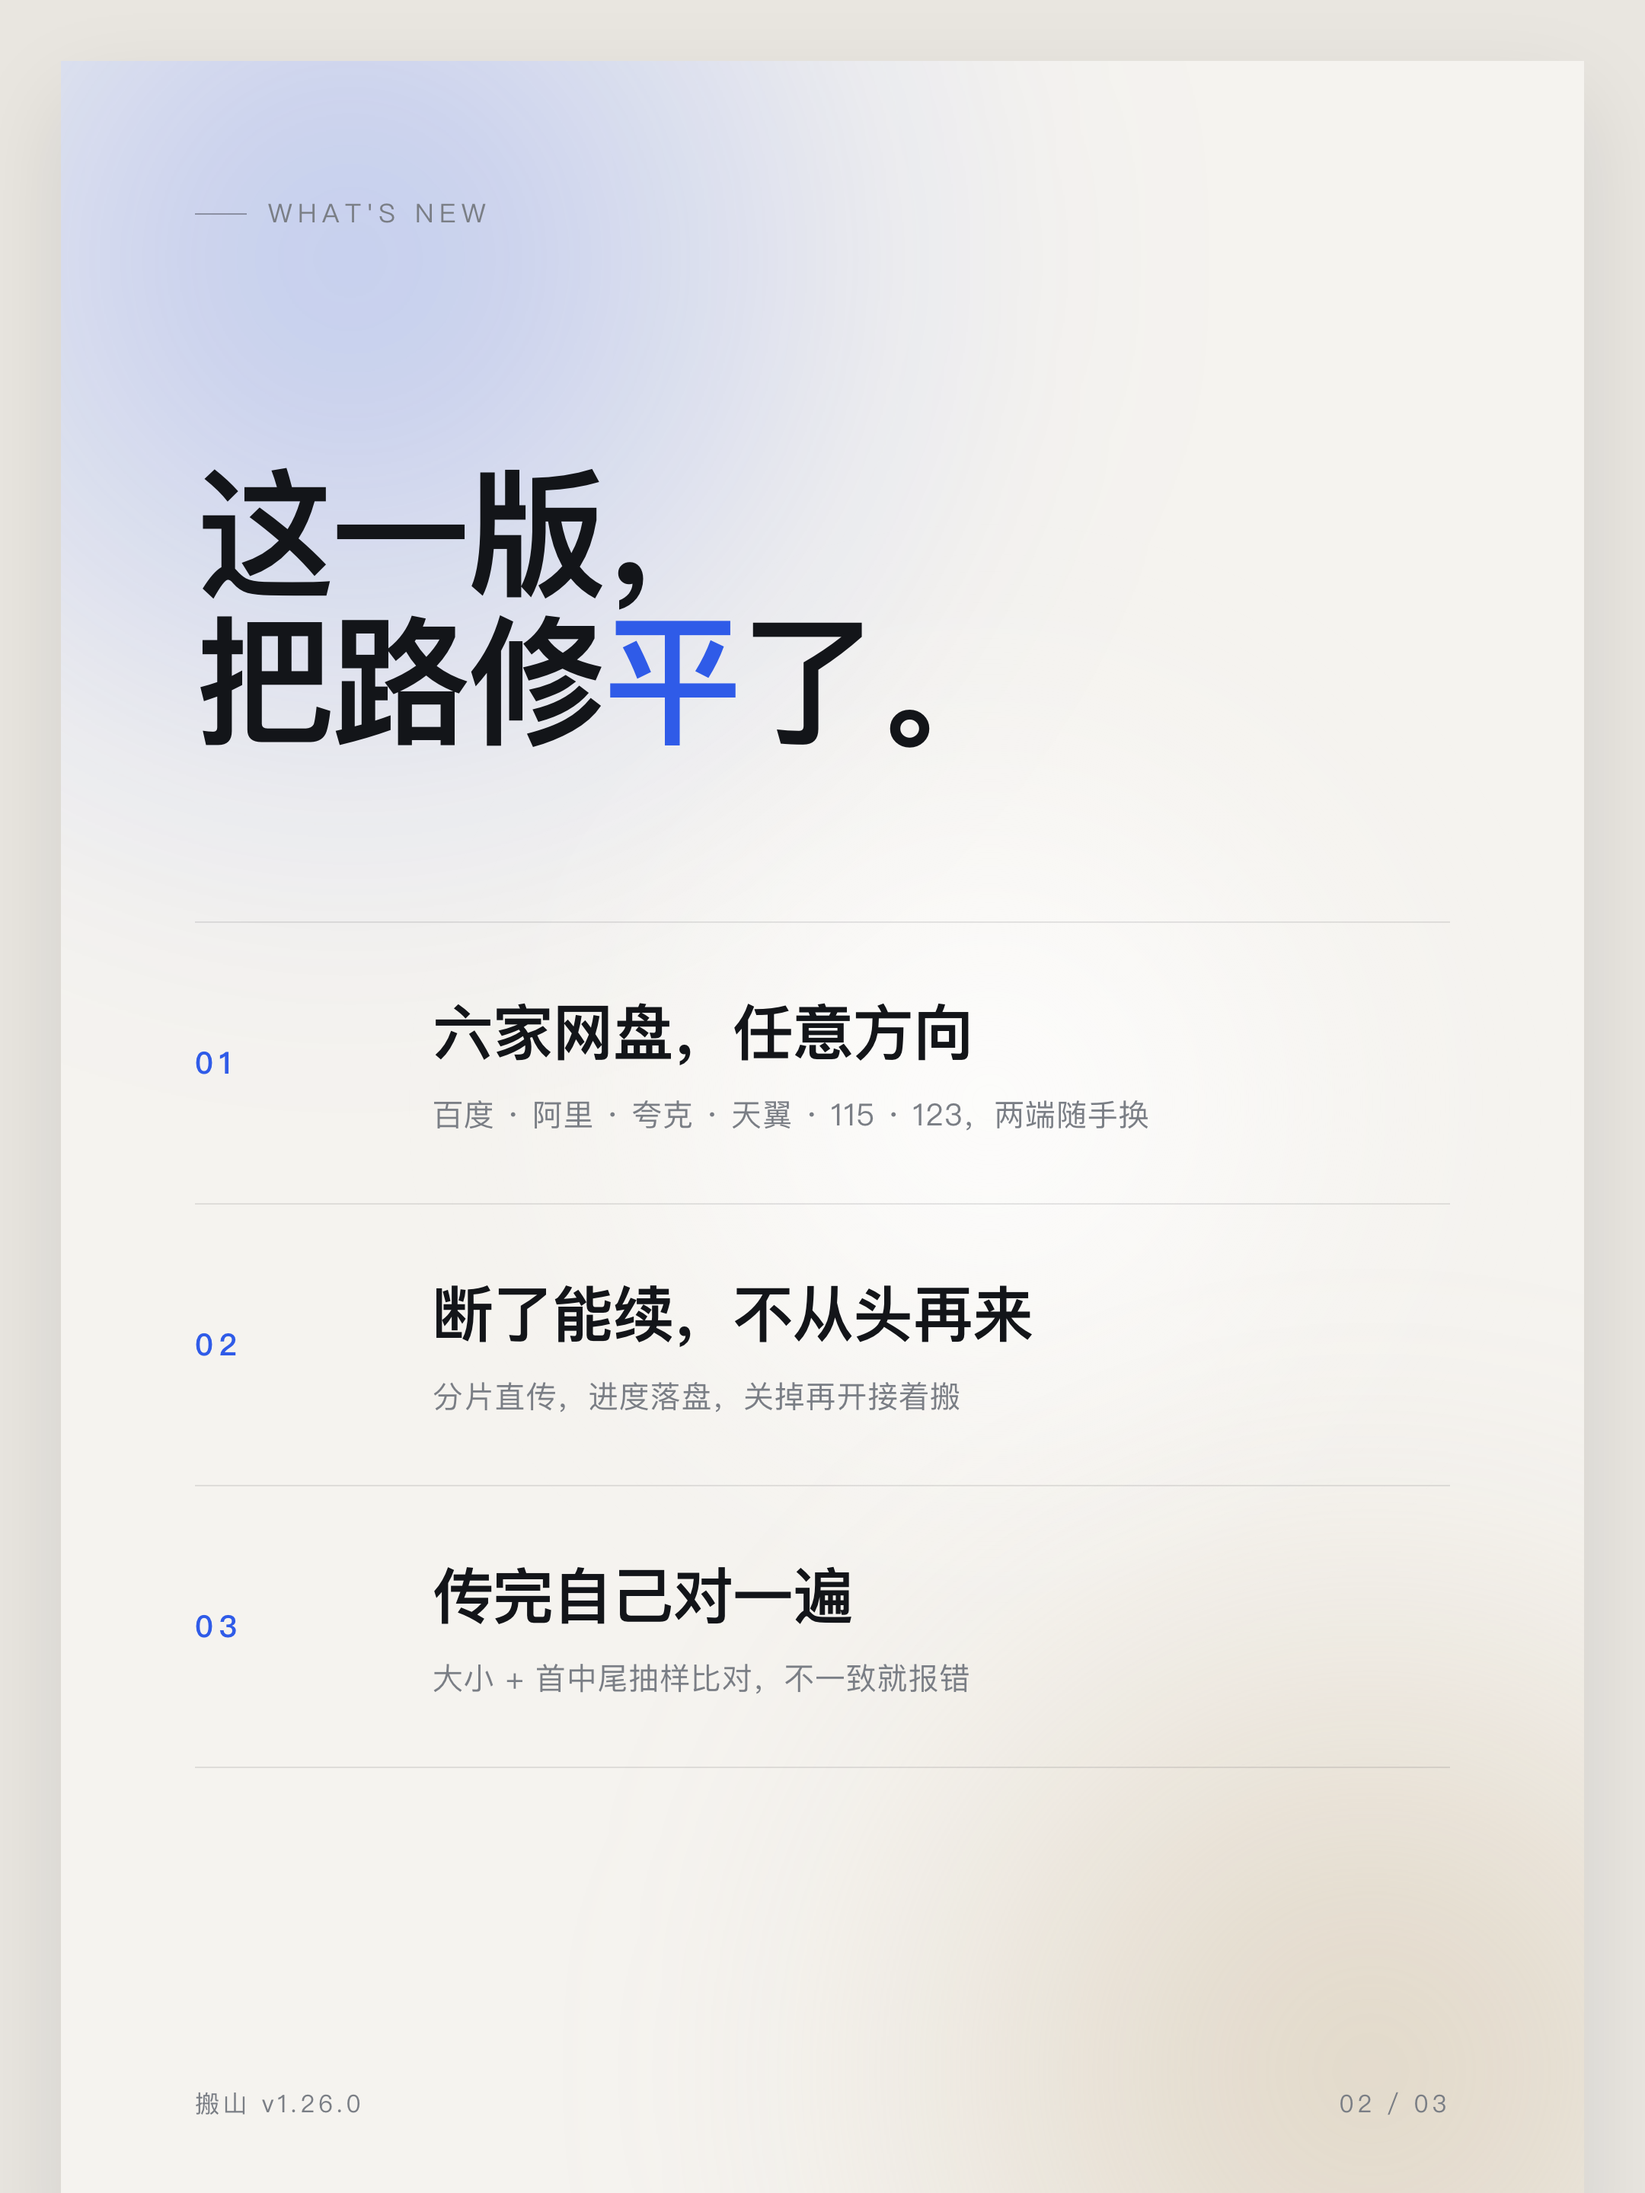
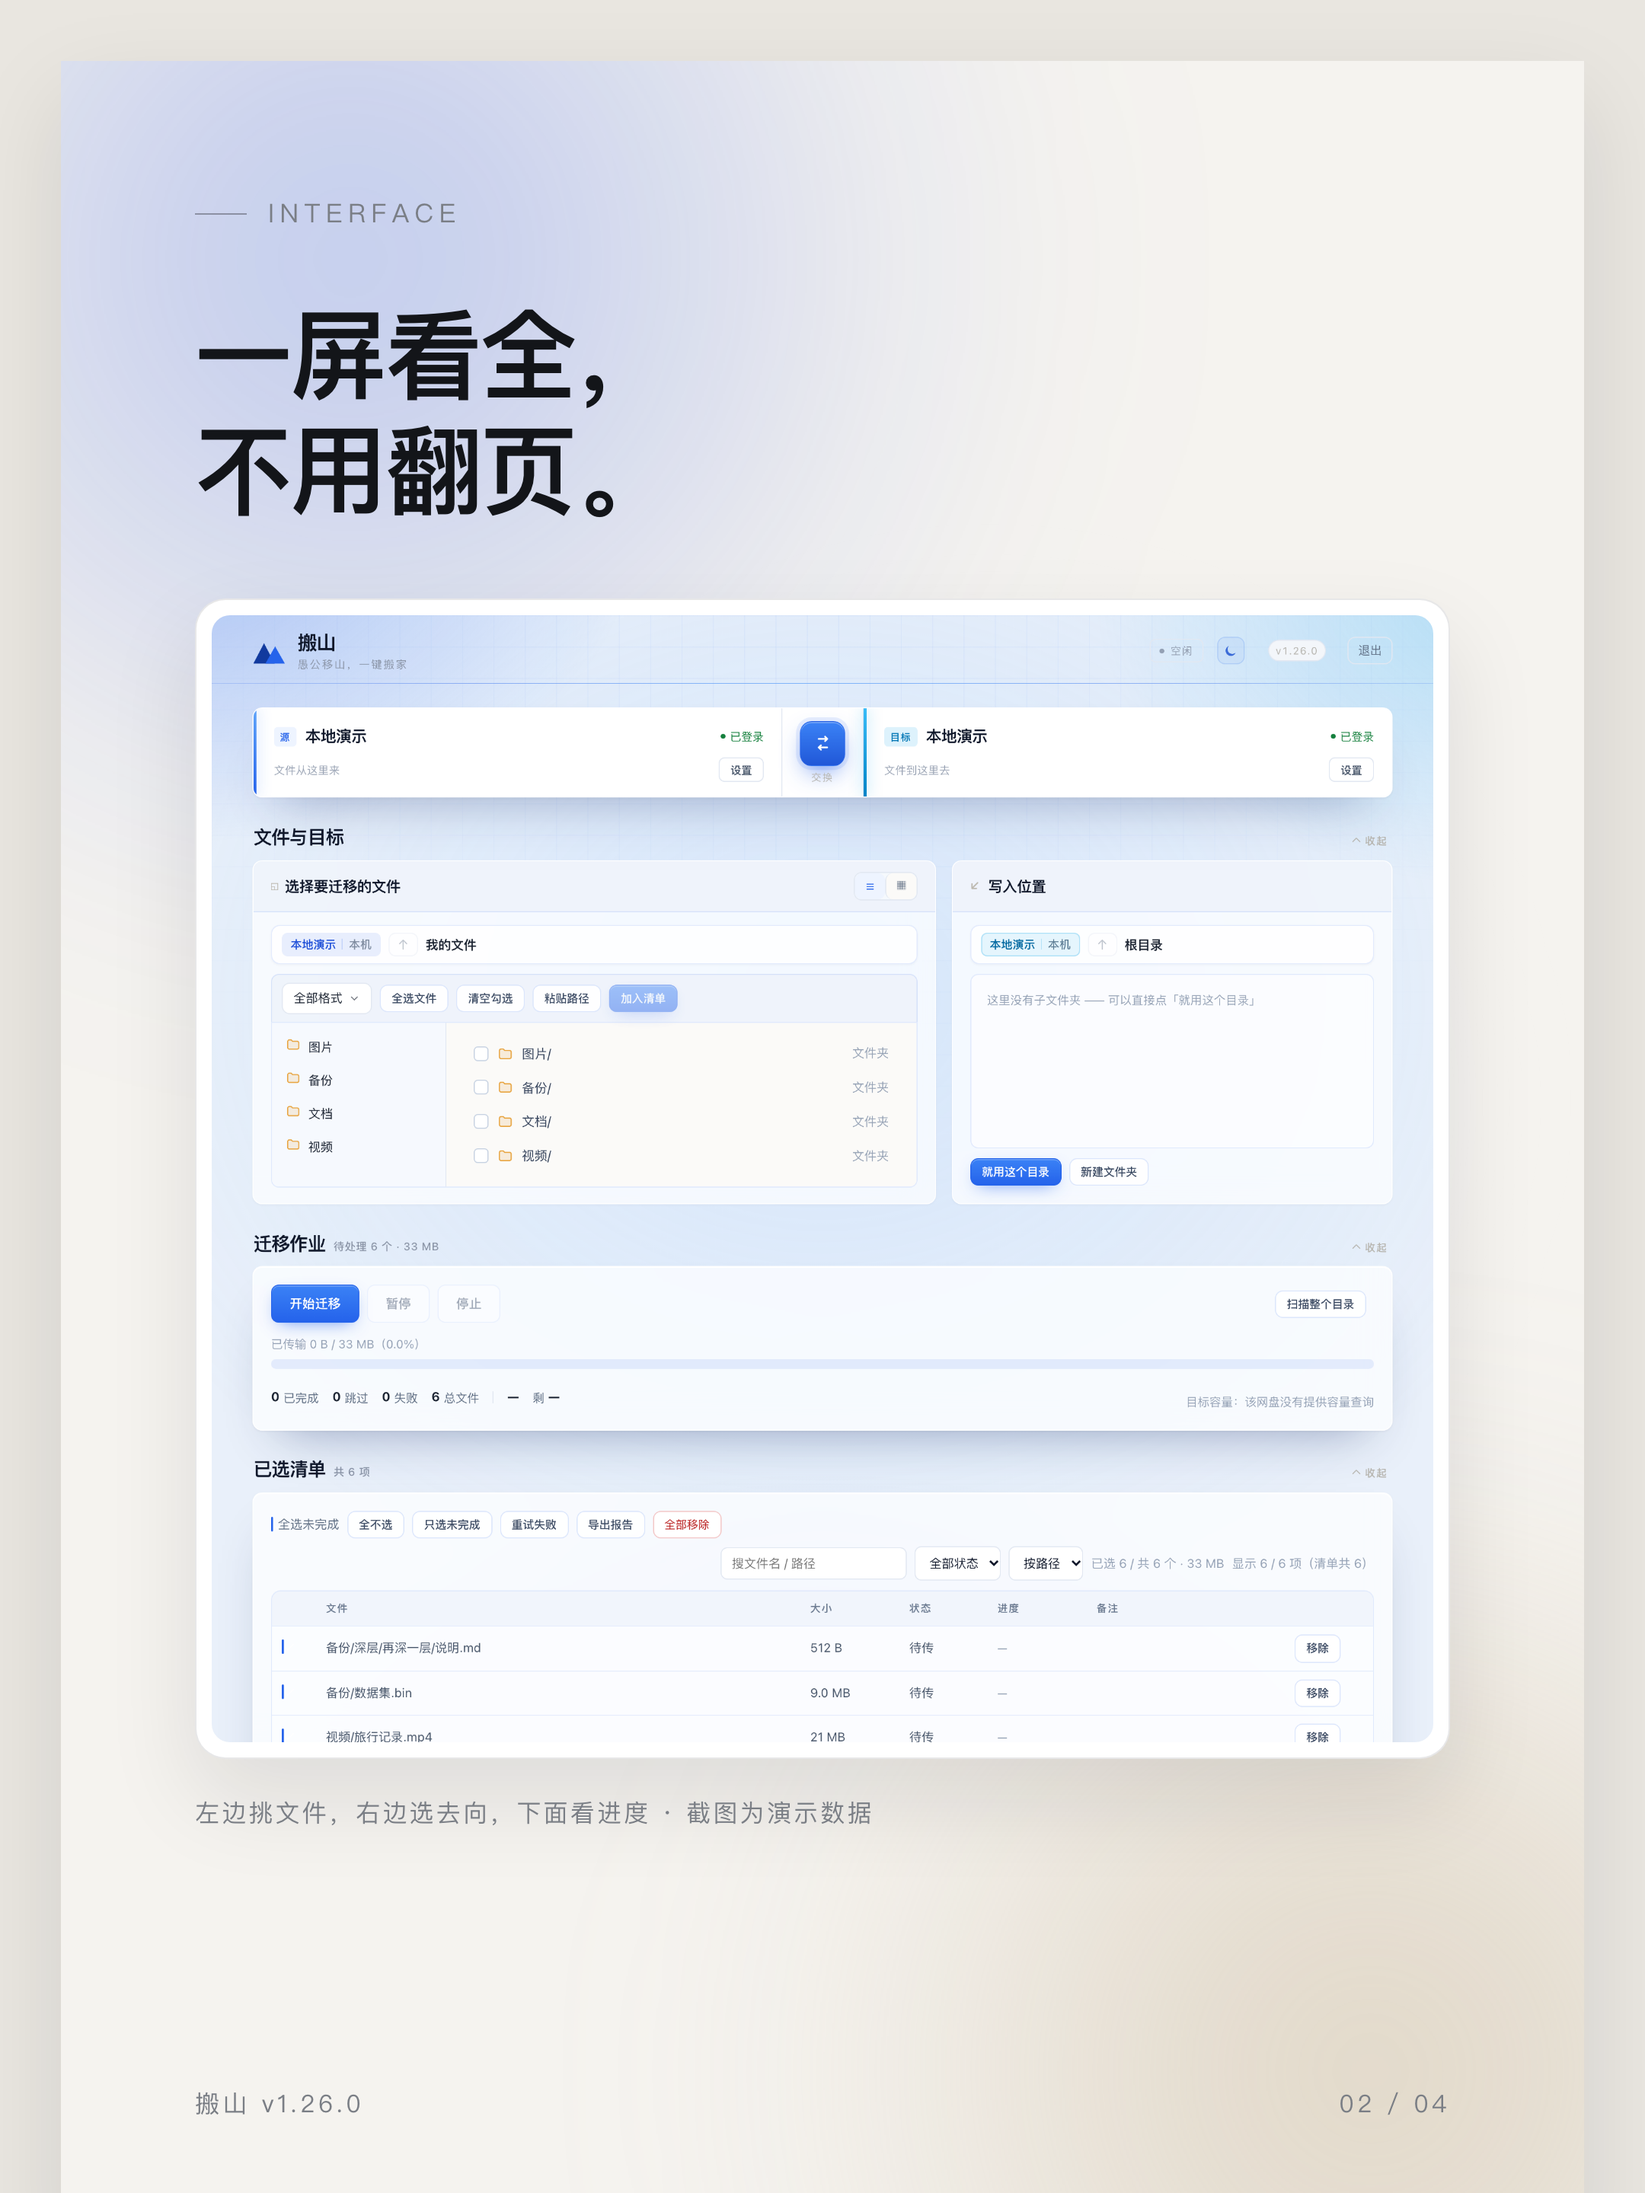
海报：新增界面截图页（四页版）

diff --git a/posters/v127/poster.html b/posters/v127/poster.html
@@ -125,6 +125,18 @@
     letter-spacing:.005em;margin-bottom:6px;
   }
 
+  /* ── 第 2 页：界面截图 ── */
+  .ui-title{margin-top:44px;font-size:64px;line-height:1.18;font-weight:700;letter-spacing:-.025em}
+  .shot{
+    margin-top:46px;background:#fff;border:1px solid var(--hair);border-radius:20px;
+    padding:10px;box-shadow:0 26px 60px rgba(19,21,25,.10);
+  }
+  .shot img{
+    display:block;width:100%;height:740px;object-fit:cover;object-position:top center;
+    border-radius:12px;
+  }
+  .ui-note{margin-top:24px;font-size:16px;letter-spacing:.1em;color:var(--muted)}
+
   /* 单页预览：URL 带 ?p=N 时只显示第 N 页 */
   body[data-only="1"] .page{display:none}
   body[data-only="1"] .page.on{display:block}
@@ -175,7 +187,25 @@
   </div>
 </section>
 
-<!-- ══════════ 第 2 页 · 更新要点 ══════════ -->
+<!-- ══════════ 第 2 页 · 界面 ══════════ -->
+<section class="page">
+  <div class="glow"></div><div class="glow-2"></div>
+  <div class="inner">
+    <div class="kicker"><i></i>Interface</div>
+
+    <h2 class="ui-title">一屏看全，<br>不用翻页。</h2>
+
+    <div class="shot">
+      <img src="../../screenshots/主界面-浅色.png" alt="搬山主界面">
+    </div>
+
+    <div class="ui-note">左边挑文件，右边选去向，下面看进度 · 截图为演示数据</div>
+
+    <div class="foot"><span>搬山 v1.26.0</span><span>02 / 04</span></div>
+  </div>
+</section>
+
+<!-- ══════════ 第 3 页 · 更新要点 ══════════ -->
 <section class="page">
   <div class="glow"></div><div class="glow-2"></div>
   <div class="inner">
@@ -204,7 +234,7 @@
       </div>
     </div>
 
-    <div class="foot"><span>搬山 v1.26.0</span><span>02 / 03</span></div>
+    <div class="foot"><span>搬山 v1.26.0</span><span>03 / 04</span></div>
   </div>
 </section>
 

diff --git a/posters/v127/shot.py b/posters/v127/shot.py
@@ -2,7 +2,7 @@
 """把海报 HTML 逐页截成 PNG（1080×1440，2x）。
 
 用法：python3 shot.py <poster.html> <输出目录> [页数]
-输出：<输出目录>/poster-1.png … poster-N.png
+输出：<输出目录>/poster-1.png … poster-N.png（默认 4 页）
 """
 from __future__ import annotations
 
@@ -23,7 +23,7 @@ W, H = 1080, 1440
 def main() -> int:
     html = Path(sys.argv[1]).resolve()
     outdir = Path(sys.argv[2]).resolve()
-    pages = int(sys.argv[3]) if len(sys.argv) > 3 else 3
+    pages = int(sys.argv[3]) if len(sys.argv) > 3 else 4
     outdir.mkdir(parents=True, exist_ok=True)
 
     proc = subprocess.Popen([
